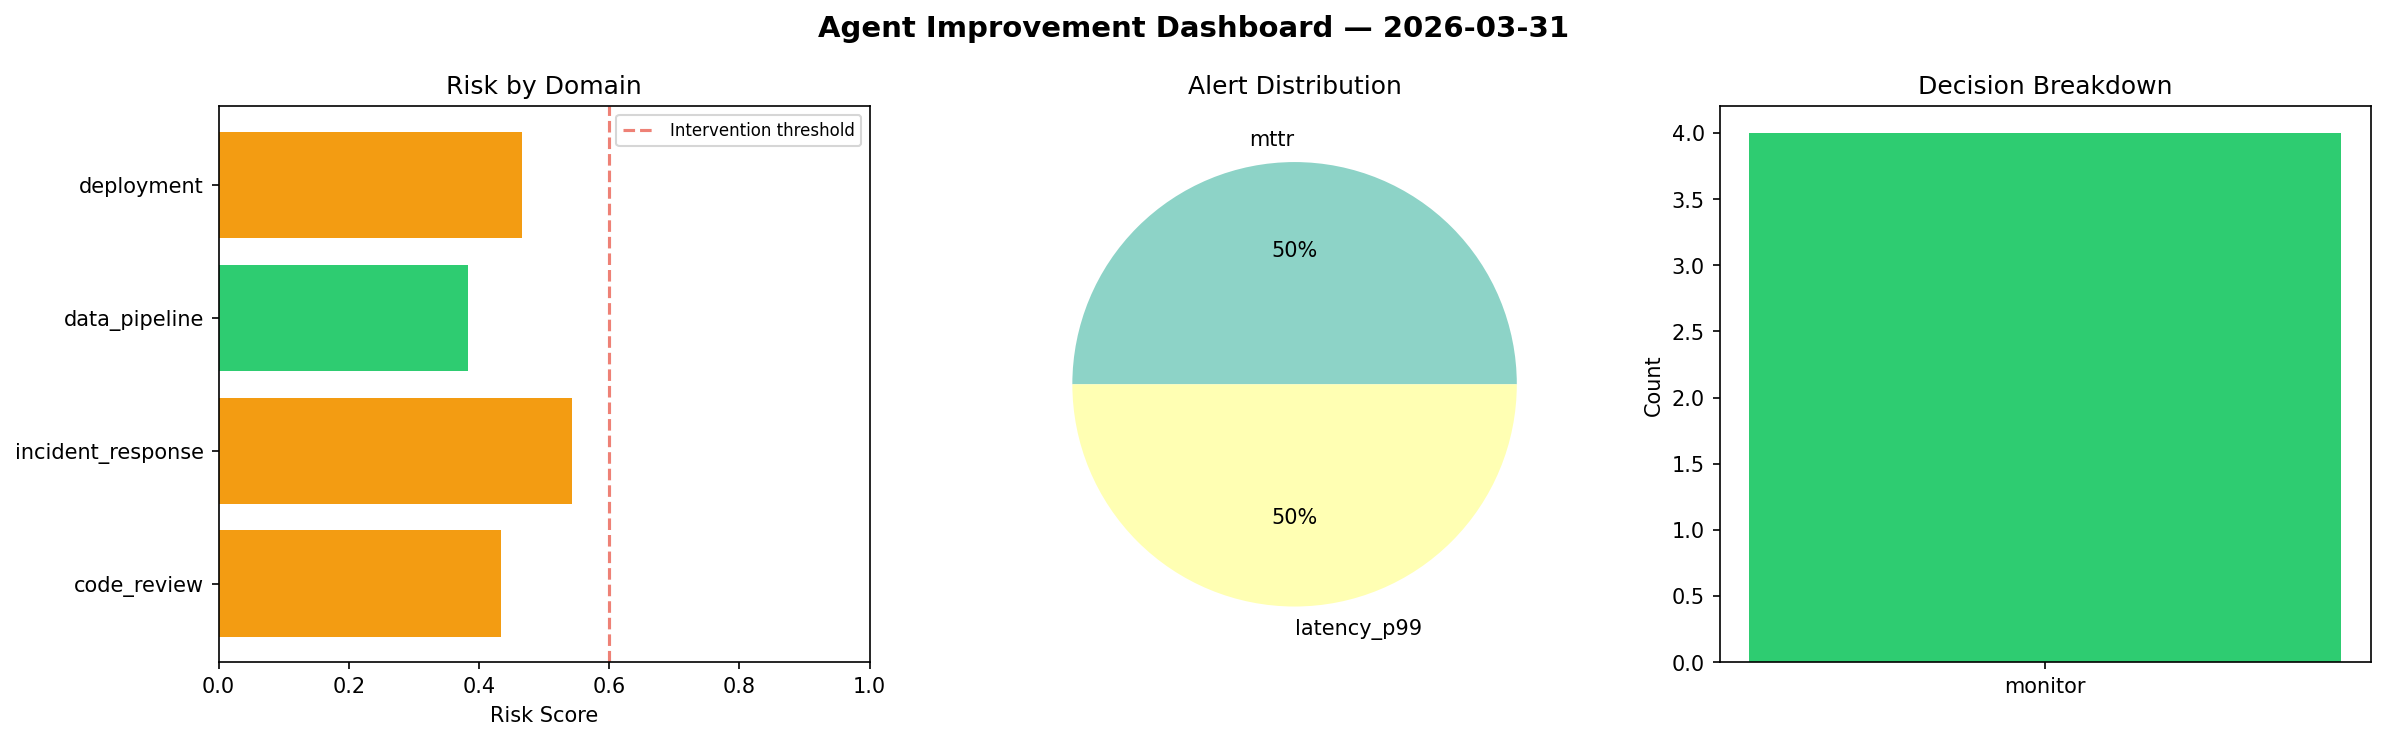
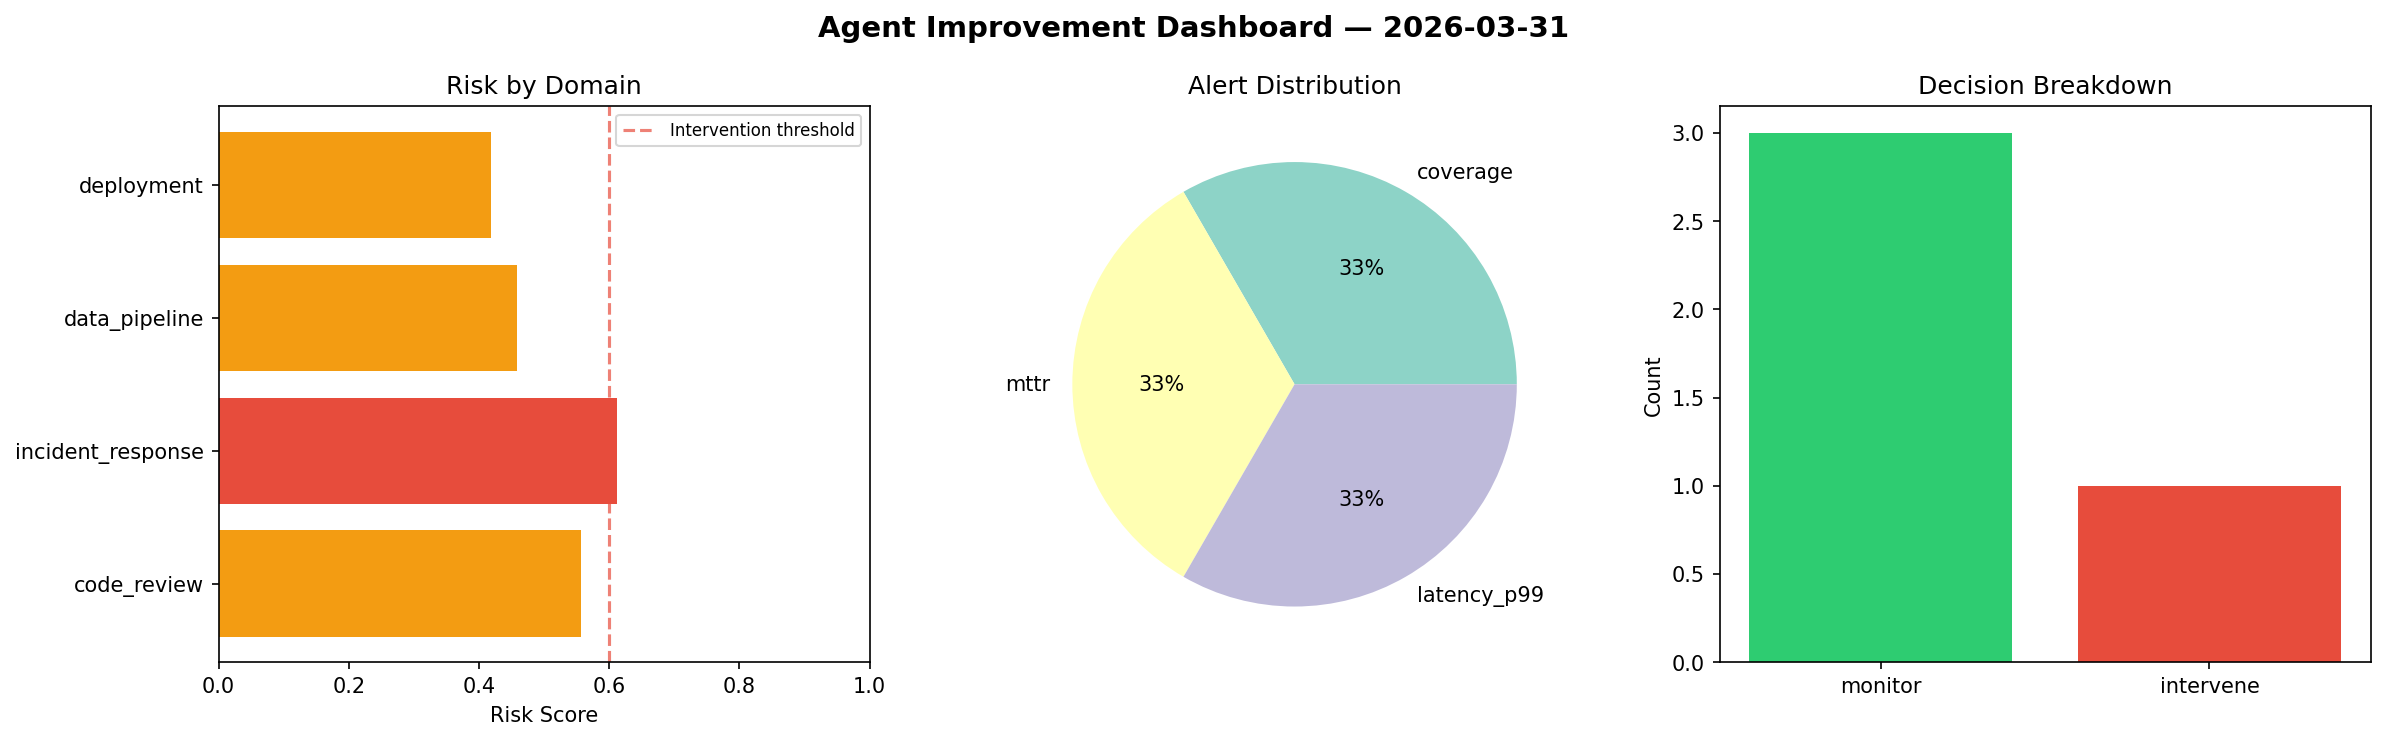
agent-improvement: daily cycle 2026-03-31T09:17

diff --git a/logs/2026-03-31.md b/logs/2026-03-31.md
@@ -1,6 +1,6 @@
 # Agent Improvement Report — 2026-03-31
 
-**Cycle ID:** `e1eede46` | **Avg Risk:** 0.4565 | **Interventions:** 0/4
+**Cycle ID:** `fa58467a` | **Avg Risk:** 0.5112 | **Interventions:** 1/4
 
 ![Dashboard](2026-03-31_dashboard.png)
 
@@ -10,18 +10,18 @@
 
 | Domain | Risk Score | Decision | Alerts |
 |--------|-----------|----------|--------|
-| code_review | 0.4338 | monitor | none |
-| incident_response | 0.5429 | monitor | mttr |
-| data_pipeline | 0.3827 | monitor | none |
-| deployment | 0.4665 | monitor | latency_p99 |
+| code_review | 0.5565 | monitor | coverage |
+| incident_response | 0.6119 | intervene | mttr |
+| data_pipeline | 0.4576 | monitor | none |
+| deployment | 0.419 | monitor | latency_p99 |
 
 ## Delta vs Yesterday
 
 | Domain | Today | Yesterday | Change |
 |--------|-------|-----------|--------|
-| code_review | 0.4338 | 0.7883 | 📉 -45.0% |
-| incident_response | 0.5429 | 0.5852 | 📉 -7.2% |
-| data_pipeline | 0.3827 | 0.446 | 📉 -14.2% |
-| deployment | 0.4665 | 0.43 | 📈 8.5% |
+| code_review | 0.5565 | 0.7883 | 📉 -29.4% |
+| incident_response | 0.6119 | 0.5852 | 📈 4.6% |
+| data_pipeline | 0.4576 | 0.446 | 📈 2.6% |
+| deployment | 0.419 | 0.43 | 📉 -2.6% |
 
-**Refinement:** `{'adjustment': 'tighten_thresholds', 'trend': 'degrading', 'window': 4}`
+**Refinement:** `{'adjustment': 'maintain', 'trend': 'improving', 'window': 4}`
